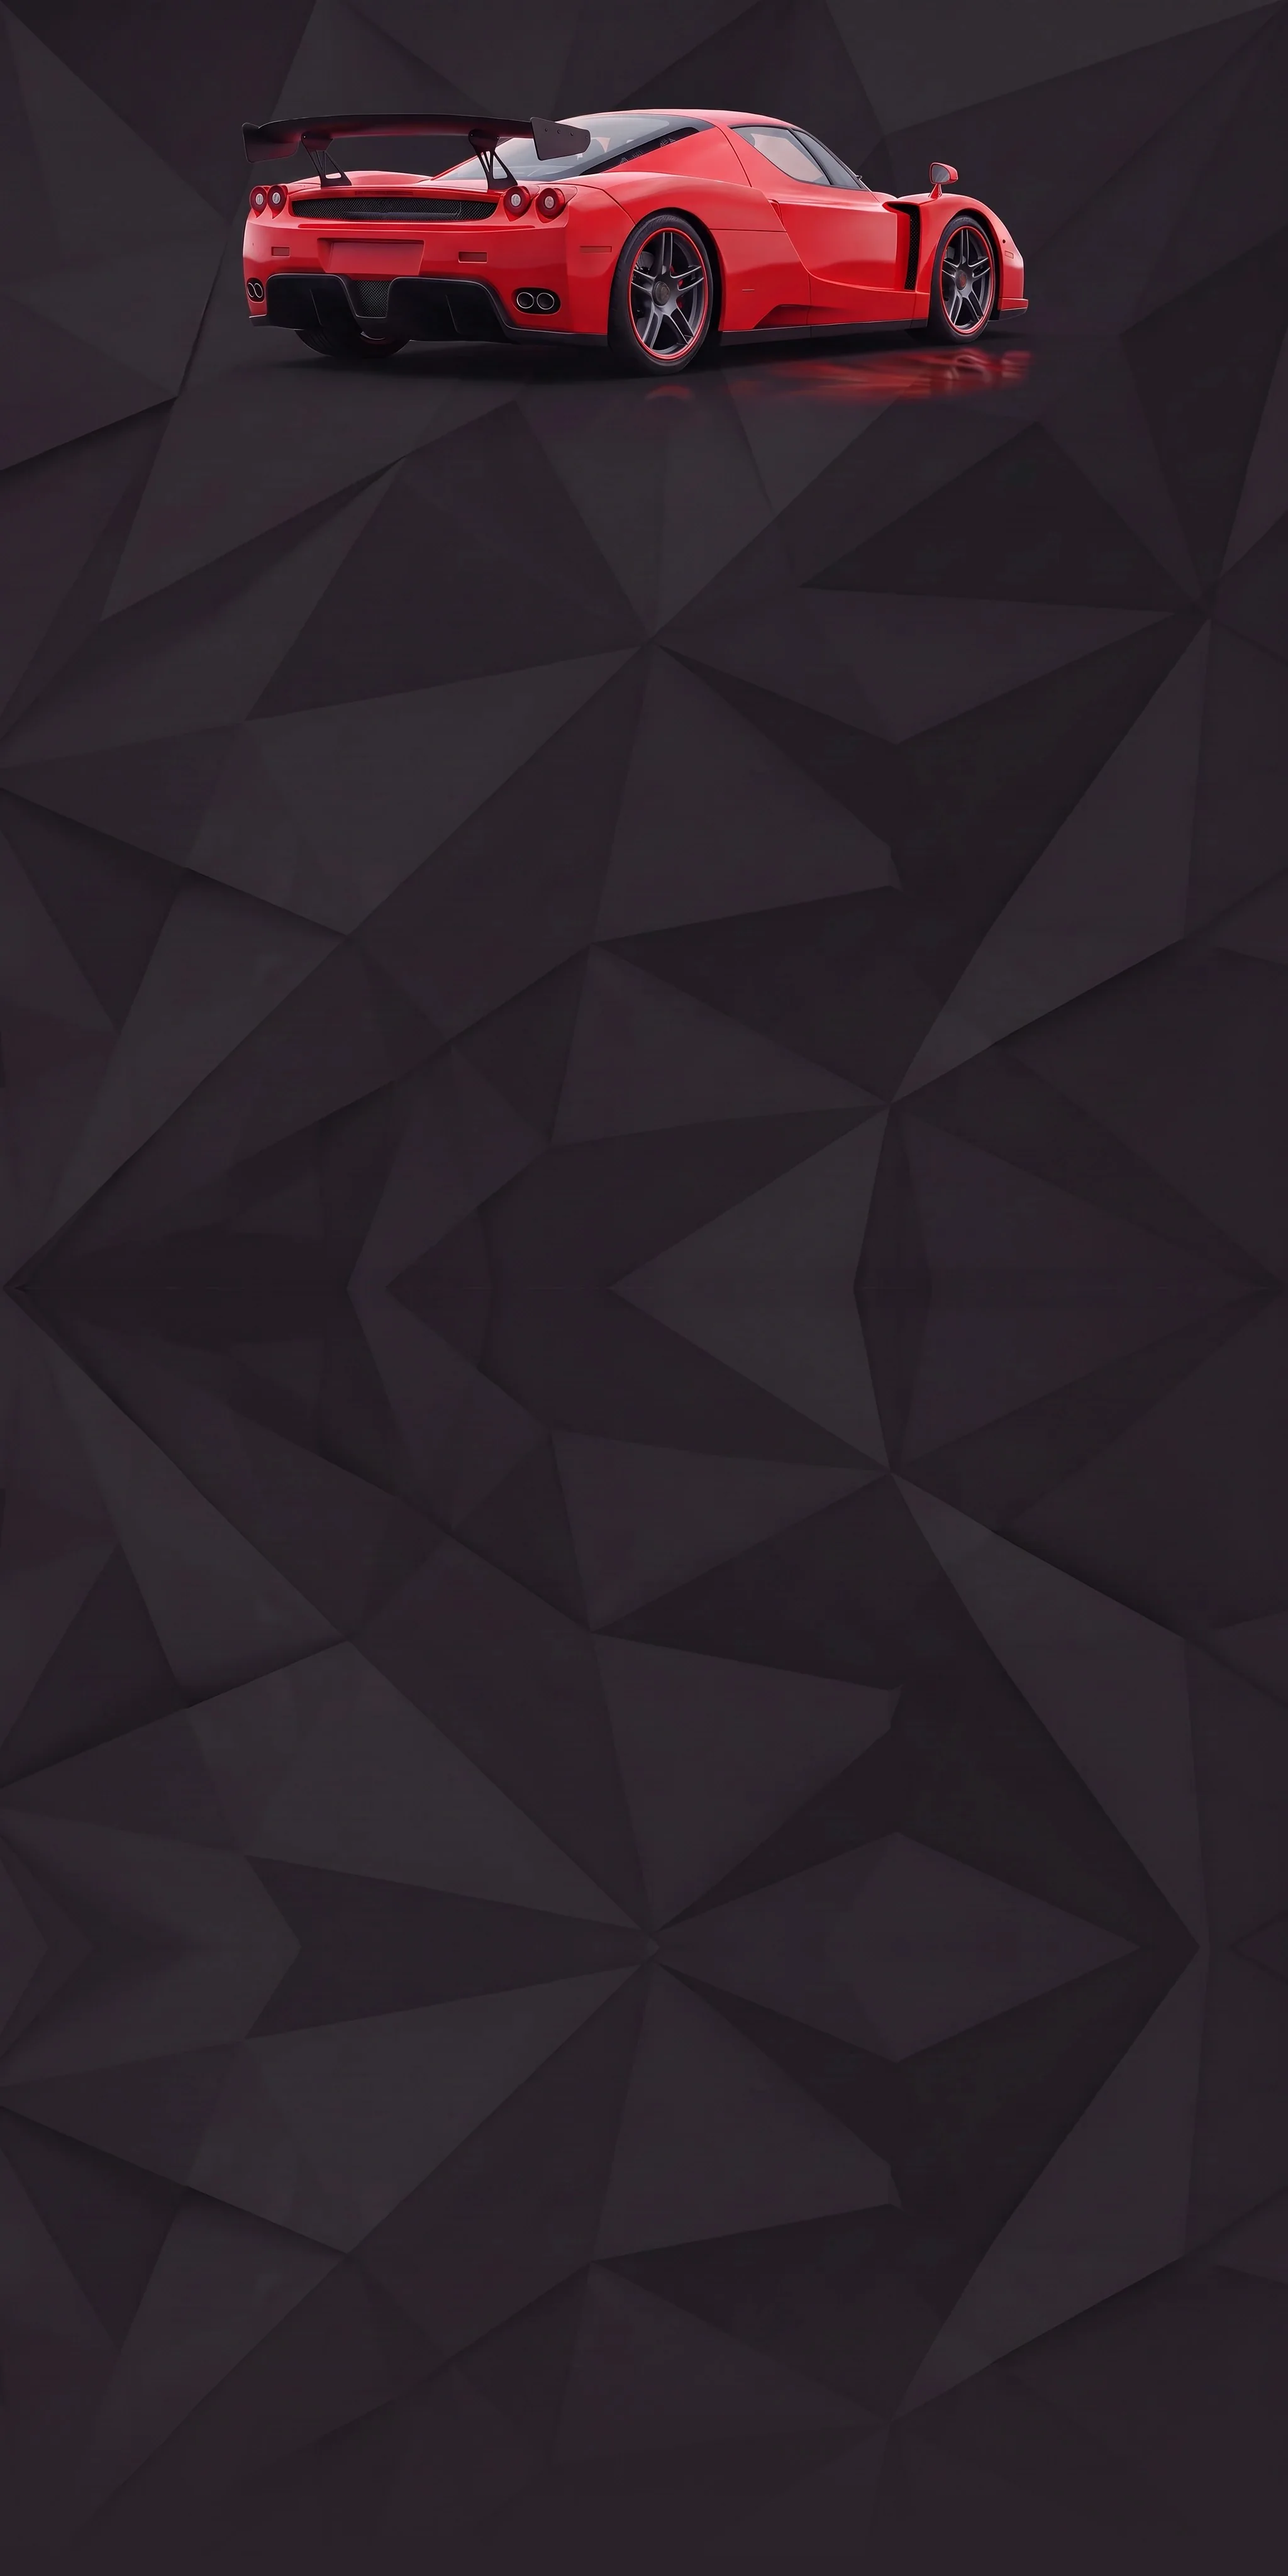
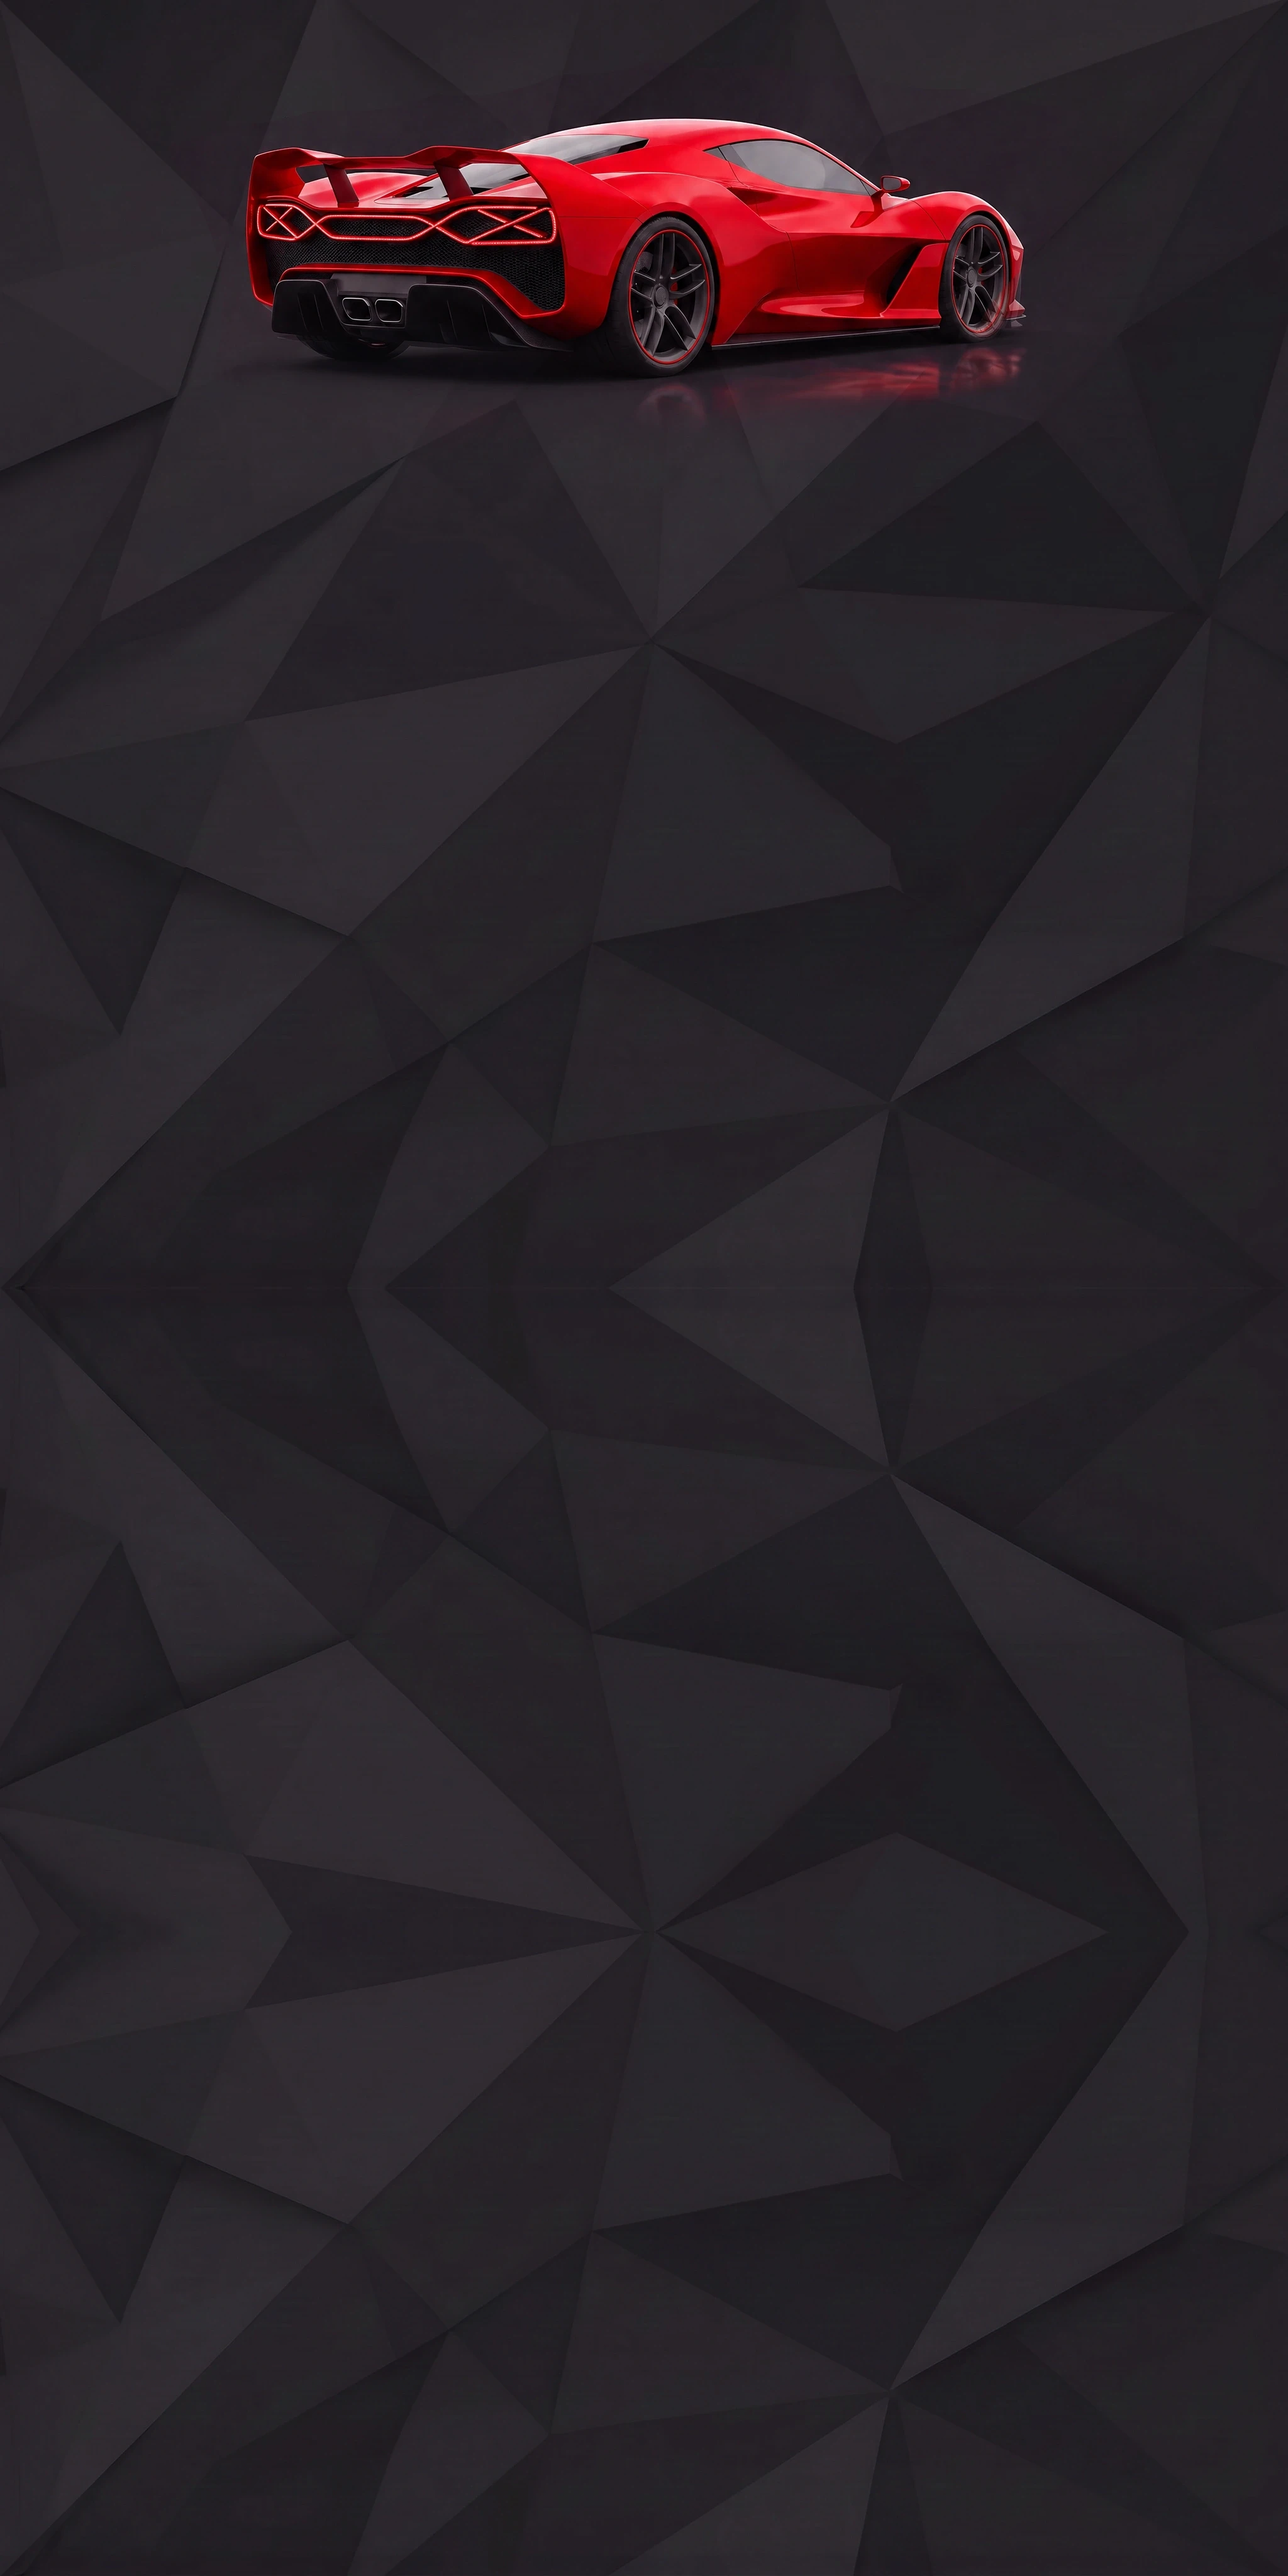
Replace intro-plate.webp and pro-plate.webp with new commissioned art
Both new renders (original-design red coupe for the intro sheet,
matte-grey coupe for the Pro Garage popup) vetted for badges/plates/
wordmarks the same way as every other pool addition — neither carries
one, neither silhouette matches a specific real manufacturer.

Rebuilt each into the format css/game.css's .plate-sheet rule actually
expects: a 2048x4096 canvas (2x the visible width) with the car in the
top ~7-30% band and the remainder filled to avoid a seam once dialog
content scrolls past the art. The supplied 2048x2048 squares already
had the car in almost the right band, just at half the expected canvas
height — extended each via mirror-tiling the render's own background
downward (seam-matched at every boundary) rather than flat-filling.

Verified with ruled-line overlays at the CSS's own percentage marks,
then a live headless render of both sheets in a running instance
(intro sheet + Pro Garage popup) — correct banding, zero console
errors, zero failed asset loads.

Note: npm run verify currently fails on an unrelated, pre-existing
issue ("daily 2026-08-18: generation failed") — confirmed via git
stash that it reproduces identically without this commit's changes,
so it's a date-rolling issue in the daily-puzzle generator, not
something this change touched.

Changed region(s): [[0.1875, 0.0312, 0.8125, 0.1562]]

diff --git a/docs/ASSET-PROVENANCE.md b/docs/ASSET-PROVENANCE.md
@@ -438,11 +438,45 @@ retouches above (2026-07-31 entry) applied cleanly:
 **Still open, unchanged by this correction:** `start-portrait.webp` /
 `start-landscape.webp` (legible "FERRARI" wordmark, three recognizable
 Lamborghini Huracáns, a scene-level exposure no silhouette argument
-touches), `intro-plate.webp` (a photoreal Ferrari Enzo), and `pro-
-plate.webp` (a Porsche 718 Cayman GT4) are all still flagged and still
-awaiting replacement art — see the image reference sheet shared with the
-developer for the current full list, tagged R1–R11 and L1–L5 by
-confidence tier rather than by filename.
+touches) are still flagged and awaiting replacement art — see the image
+reference sheet shared with the developer for the current full list,
+tagged R1–R11 and L1–L5 by confidence tier rather than by filename.
+`intro-plate.webp` and `pro-plate.webp` were replaced 2026-08-06, see
+below.
+
+### 2026-08-06: `intro-plate.webp` and `pro-plate.webp` replaced with commissioned art
+
+Two new renders supplied by the developer, on the same dark low-poly
+background as the originals: an original-design red coupe (X-shaped
+taillight lattice, not a match for any real marque's signature) for
+`intro-plate.webp`, and a matte-grey coupe with orange wheels for
+`pro-plate.webp`. Both vetted the same way as every other addition to
+this pool — zoomed crops of the rear bumper/plate area on both, looking
+specifically for the kind of embossed plate text the `hero-airtail-*`
+retouches (above) needed. Neither carries one; `pro-plate.webp`'s plate
+recess is genuinely blank, `intro-plate.webp` has no plate at all in
+frame. Neither silhouette reads as a specific real manufacturer.
+
+**Not a drop-in file swap** — `css/game.css`'s `.plate-sheet` rule
+(search "Full-bleed art plates" in that file) pins these images to
+`background-size: 100% auto` and reserves a fixed 30%-of-width band for
+the car via `.plate-spacer{aspect-ratio:1/.30}`, and expects the source
+canvas itself to be pre-extended to 2× its width (2048×4096) with the
+area below the car filled to avoid a seam once real content scrolls
+past the art. The two supplied renders were 2048×2048 squares with the
+car already sitting in almost exactly the right band (car spans roughly
+5–27% of width vs. the original files' 7–28% — close enough that no
+repositioning was needed) but at half the expected canvas height.
+Extended each to 2048×4096 by mirror-tiling the render's own lower
+background region downward (reflect-repeat, so every seam boundary
+matches pixel-for-pixel) rather than flat-filling or attempting to
+regenerate the polygon texture — verified with ruled-line overlays at
+the CSS's own 7/15/20/25/30.5% marks before shipping, and confirmed
+seamless (no visible tiling artifact) at the 50% mirror boundary. Final
+live-render check: both sheets screenshotted in a running instance of
+the app (intro sheet on first load, Pro Garage popup via a direct
+overlay-class toggle) — car correctly banded, content starting at the
+right offset, zero console errors, zero failed asset loads.
 
 ## Fonts — cleared
 
